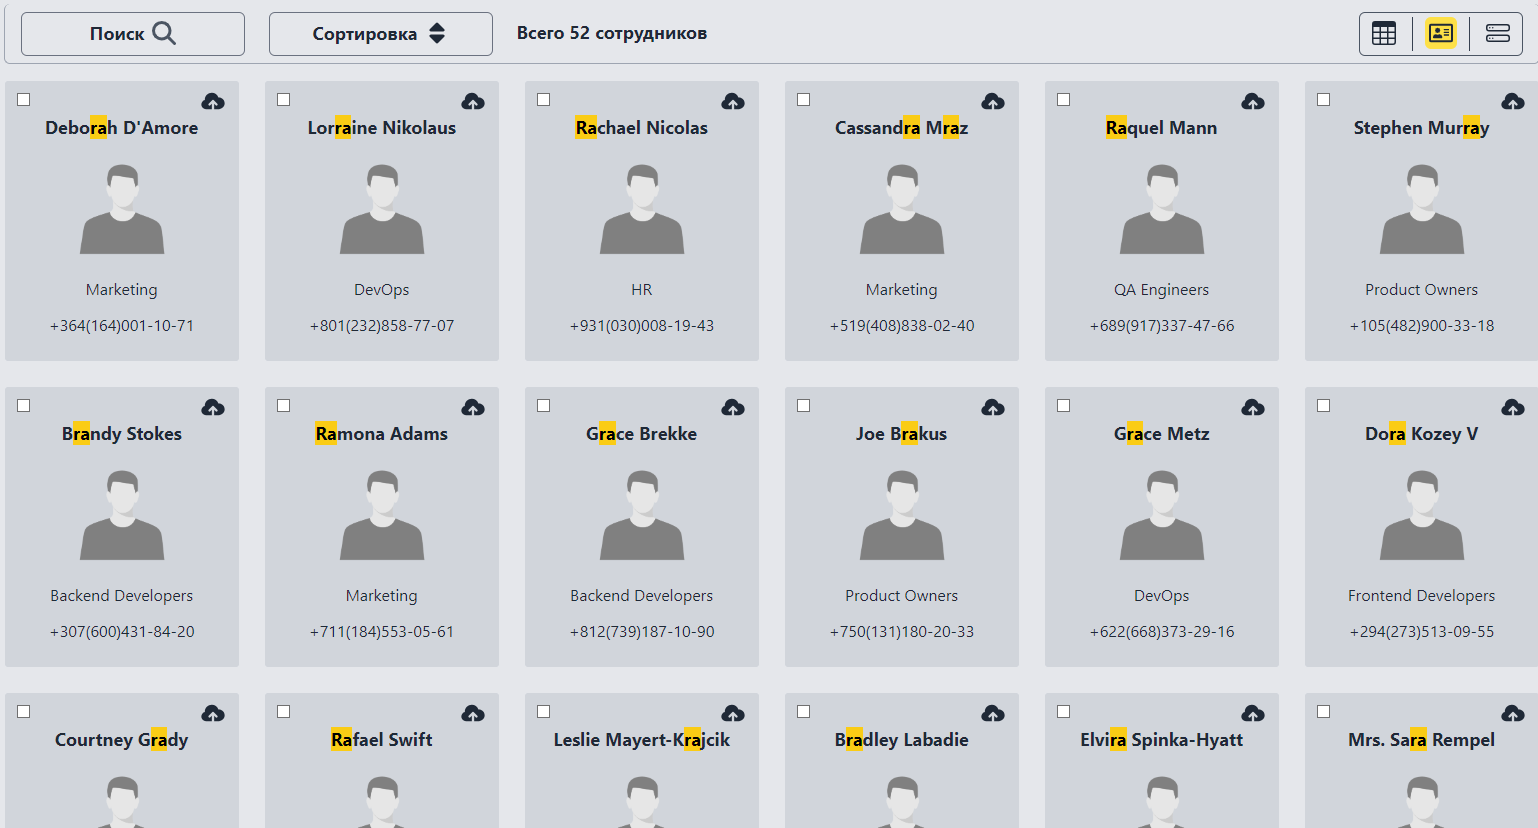
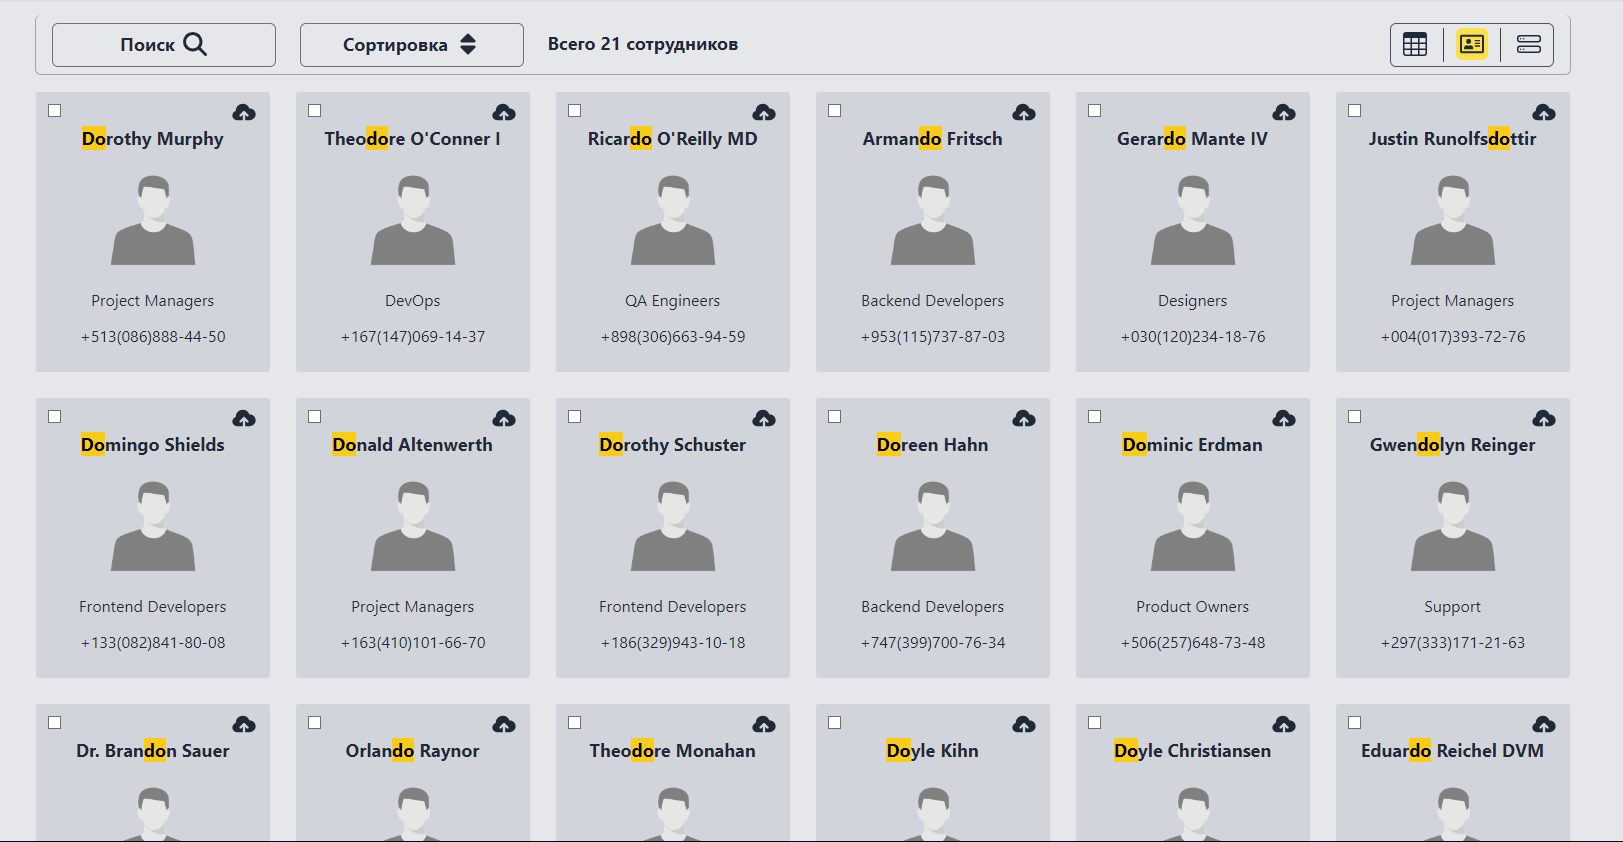
Dark theme has been created

diff --git a/src/components/dashboards/TableEntry.tsx b/src/components/dashboards/TableEntry.tsx
@@ -8,7 +8,8 @@ export default function TableEntry({ employee, isSelected, setIsSelected }: Entr
     const { searchField, searchValue } = useEmployeeData();
 
     return (
-        <tr key={employee.id} className={clsx(isSelected ? "bg-blue-200 even:bg-blue-300" : "odd:bg-gray-100")}>
+        <tr key={employee.id} className={clsx(isSelected ?
+            "bg-blue-200 even:bg-blue-300 dark:bg-blue-800/75 dark:odd:bg-blue-600/75" : "odd:bg-gray-100 dark:odd:bg-gray-600")}>
             <td className=""><input className="mx-auto block" type="checkbox"
                                     checked={isSelected} onChange={event => {
                 const check = event.currentTarget?.checked;
@@ -19,31 +20,31 @@ export default function TableEntry({ employee, isSelected, setIsSelected }: Entr
                 }));
             }}/></td>
             <td className="py-2">{searchField === "name" && searchValue ? <Highlighter
-                highlightClassName="bg-yellow-400"
+                highlightClassName="bg-yellow-400 dark:bg-yellow-500"
                 searchWords={[ searchValue ]}
                 autoEscape={true}
                 textToHighlight={employee.name}
             /> : employee.name}</td>
             <td className="py-2">{searchField === "accountName" && searchValue ? <Highlighter
-                highlightClassName="bg-yellow-400"
+                highlightClassName="bg-yellow-400 dark:bg-yellow-500"
                 searchWords={[ searchValue ]}
                 autoEscape={true}
                 textToHighlight={employee.accountName}
             /> : employee.accountName}</td>
             <td className="py-2">{searchField === "email" && searchValue ? <Highlighter
-                highlightClassName="bg-yellow-400"
+                highlightClassName="bg-yellow-400 dark:bg-yellow-500"
                 searchWords={[ searchValue ]}
                 autoEscape={true}
                 textToHighlight={employee.email}
             /> : employee.email}</td>
             <td className="py-2">{searchField === "group" && searchValue ? <Highlighter
-                highlightClassName="bg-yellow-400"
+                highlightClassName="bg-yellow-400 dark:bg-yellow-500"
                 searchWords={[ searchValue ]}
                 autoEscape={true}
                 textToHighlight={employee.group || "Unmanaged"}
             /> : employee.group || "Unmanaged"}</td>
             <td className="py-2">{searchField === "phoneNumber" && searchValue ? <Highlighter
-                highlightClassName="bg-yellow-400"
+                highlightClassName="bg-yellow-400 dark:bg-yellow-500"
                 searchWords={[ searchValue ]}
                 autoEscape={true}
                 textToHighlight={employee.phoneNumber}

diff --git a/src/components/dashboards/CardEntry.tsx b/src/components/dashboards/CardEntry.tsx
@@ -11,7 +11,8 @@ export default function CardEntry({ employee, setIsSelected, isSelected }: Entry
 
     return (
         <div className={clsx("relative px-6 pt-8 pb-6 rounded flex flex-col items-center gap-y-3 cursor-pointer border",
-            isSelected ? "bg-blue-200 border-blue-400" : "bg-gray-300 hover:bg-gray-400/90")}
+            isSelected ? "bg-blue-200 border-blue-400 dark:bg-blue-700/50" :
+                "bg-gray-300 hover:bg-gray-400/90 dark:border-gray-300 dark:bg-gray-800 dark:hover:bg-gray-700")}
              onClick={() => {
                  setIsSelected(prev => ({
                      ...prev,
@@ -19,20 +20,20 @@ export default function CardEntry({ employee, setIsSelected, isSelected }: Entry
                  }));
              }}>
             <h5 className="font-bold text-lg">{searchField === "name" && searchValue ? <Highlighter
-                highlightClassName="bg-yellow-400"
+                highlightClassName="bg-yellow-400 dark:bg-yellow-500"
                 searchWords={[ searchValue ]}
                 autoEscape={true}
                 textToHighlight={employee.name}
             /> : employee.name}</h5>
             <img src="/avatar_placeholder.png" alt="Avatar" className="w-28"/>
             <p>{searchField === "group" && searchValue ? <Highlighter
-                highlightClassName="bg-yellow-400"
+                highlightClassName="bg-yellow-400 dark:bg-yellow-500"
                 searchWords={[ searchValue ]}
                 autoEscape={true}
                 textToHighlight={employee.group || "Unmanaged"}
             /> : employee.group || "Unmanaged"}</p>
             <p>{searchField === "phoneNumber" && searchValue ? <Highlighter
-                highlightClassName="bg-yellow-400"
+                highlightClassName="bg-yellow-400 dark:bg-yellow-500"
                 searchWords={[ searchValue ]}
                 autoEscape={true}
                 textToHighlight={employee.phoneNumber}

diff --git a/src/HomePage.tsx b/src/HomePage.tsx
@@ -13,7 +13,8 @@ export default function HomePage() {
                 можете добавлять, редактировать и просматривать информацию о сотрудниках в реальном времени.
             </p>
             <div className="flex justify-center space-x-5 items-start">
-                <Link to="/dashboard" className="bg-purple-600 text-white py-4 px-3 shadow-lg tracking-wide rounded-xl hover:bg-purple-700">
+                <Link to="/dashboard"
+                      className="bg-purple-600 text-white py-4 px-3 shadow-lg tracking-wide rounded-xl hover:bg-purple-700">
                     Перейти к дашбордам
                 </Link>
                 <button className="border-2 bg-transparent border-purple-600 text-purple-600 tracking-wide py-3 px-3 shadow-lg
@@ -21,7 +22,15 @@ export default function HomePage() {
                     Как это работает
                 </button>
             </div>
-            <img src="/landing_screen.png" alt="Landing screen" className="mt-8 shadow-lg border border-gray-300 rounded-lg"/>
+
+            <div className="w-full dark:hidden">
+                <img src="/landing_screen.png" alt="Landing screen"
+                     className="mt-8 shadow-lg border border-gray-300 rounded-lg"/>
+            </div>
+            <div className="w-full hidden dark:block">
+                <img src="/landing_screen_dark.png" alt="Landing screen"
+                     className="mt-8 shadow-lg border border-gray-300 rounded-lg"/>
+            </div>
         </main>
     )
 }

diff --git a/src/components/dashboardToolbar/SortDropdown.tsx b/src/components/dashboardToolbar/SortDropdown.tsx
@@ -5,15 +5,16 @@ import clsx from "clsx";
 
 export default function SortDropdown() {
 
-    const {setSortedField, sortedField, isSortAscending, setIsSortAscending} = useEmployeeData();
+    const { setSortedField, sortedField, isSortAscending, setIsSortAscending } = useEmployeeData();
     return (
         <div
-            className="w-56 overflow-y-hidden transition-all duration-200 border border-gray-500 rounded-md
-                        h-11 hover:h-48 text-center z-10 bg-gray-200 pt-1.5 flex flex-col gap-y-3 items-center">
+            className="w-56 border border-gray-500 rounded-md overflow-y-hidden transition-all duration-200
+                        h-11 hover:h-48 text-center z-10 bg-gray-200 dark:bg-gray-800 pt-1.5 flex flex-col gap-y-3 items-center">
             <h5 className="text-lg font-bold flex items-center gap-x-2">Сортировка <FaSort size={24}/></h5>
             <label htmlFor="sortedField" className="block">
                 <p>Поле сортировки:</p>
-                <select name="sortedField" id="sortedField" className="mt-2" value={sortedField || "none"}
+                <select name="sortedField" id="sortedField" className="mt-2 dark:bg-gray-600 focus:outline-none"
+                        value={sortedField || "none"}
                         onChange={event => {
                             const newValue = event.currentTarget.value === "none" ? null : event.currentTarget.value;
                             setSortedField(newValue as keyof Employee);

diff --git a/src/components/dashboards/GroupEntry.tsx b/src/components/dashboards/GroupEntry.tsx
@@ -10,7 +10,7 @@ export default function GroupEntry({ employee, setIsSelected, isSelected }: Entr
     return (
         <div
             className={clsx("relative p-2 flex justify-between items-center gap-x-3 cursor-pointer border mb-2",
-                isSelected ? "bg-blue-200 border-blue-400" : "hover:bg-gray-100/90 border-gray-700")}
+                isSelected ? "bg-blue-200 border-blue-400 dark:bg-blue-700/50" : "hover:bg-gray-100/90 dark:hover:bg-gray-700 border-gray-700")}
             onClick={() => {
                 setIsSelected(prev => ({
                     ...prev,
@@ -19,13 +19,13 @@ export default function GroupEntry({ employee, setIsSelected, isSelected }: Entr
             }}>
             <div>
                 <h6 className="">{searchField === "name" && searchValue ? <Highlighter
-                    highlightClassName="bg-yellow-400"
+                    highlightClassName="bg-yellow-400 dark:bg-yellow-500"
                     searchWords={[ searchValue ]}
                     autoEscape={true}
                     textToHighlight={employee.name}
                 /> : employee.name}</h6>
                 <p className="text-xs">{searchField === "position" && searchValue ? <Highlighter
-                    highlightClassName="bg-yellow-400"
+                    highlightClassName="bg-yellow-400 dark:bg-yellow-500"
                     searchWords={[ searchValue ]}
                     autoEscape={true}
                     textToHighlight={employee.position}

diff --git a/src/components/dashboardToolbar/SearchDropdown.tsx b/src/components/dashboardToolbar/SearchDropdown.tsx
@@ -7,13 +7,14 @@ export default function SearchDropdown() {
     return (
         <div
             className="w-56 border border-gray-500 rounded-md overflow-y-hidden transition-all duration-200
-                        h-11 hover:h-48 text-center z-10 bg-gray-200 pt-1.5 flex flex-col gap-y-3 items-center">
+                        h-11 hover:h-48 text-center z-10 bg-gray-200 dark:bg-gray-800 pt-1.5 flex flex-col gap-y-3 items-center">
             <h5 className="text-lg font-bold flex items-center gap-x-2">
-                Поиск <FaMagnifyingGlass size={24} className="text-gray-600"/>
+                Поиск <FaMagnifyingGlass size={24}/>
             </h5>
             <label htmlFor="searchField" className="block">
                 <p>Поле поиска:</p>
-                <select name="searchField" id="searchField" className="mt-2" value={searchField || "none"}
+                <select name="searchField" id="searchField"
+                        className="mt-2 dark:bg-gray-600 focus:outline-none" value={searchField || "none"}
                         onChange={event => {
                             const newValue = event.currentTarget.value === "none" ? null : event.currentTarget.value;
                             setSearchField(newValue as keyof Employee);

diff --git a/src/components/dashboardToolbar/SelectDashboardVariant.tsx b/src/components/dashboardToolbar/SelectDashboardVariant.tsx
@@ -22,12 +22,13 @@ export default function SelectDashboardVariant({ active, setActive }: SelectDash
     // TODO: remove animation and replace it with highlighting of active variant
 
     return (
-        <div className="flex items-center gap-x-3 px-2 py-1 border border-gray-600
+        <div className="flex items-center gap-x-3 px-2 py-1 border border-gray-600 dark:border-gray-400
             rounded-md">
             {Object.entries(variants)
                 .map(([ key, Icon ]) => (
                     <div className="border-r pr-3 border-gray-700 last:border-r-0 last:pr-0">
-                        <button className={clsx(" p-1 rounded-md", active === key ? "bg-yellow-300" : "hover:bg-blue-300")}
+                        <button className={clsx(" p-1 rounded-md", active === key ?
+                            "bg-yellow-300 dark:bg-yellow-500" : "hover:bg-blue-300 hover:dark:bg-blue-400")}
                                 disabled={active === key} onClick={() => setActive(key)}>
                             <Icon size={24}/>
                         </button>

diff --git a/src/components/Header.tsx b/src/components/Header.tsx
@@ -28,7 +28,7 @@ export default function Header() {
                     links.map(({ text, to }) => (
                         <NavLink to={to}
                                  className={({ isActive }) =>
-                                     clsx("border border-gray-700 px-2 py-1 rounded-lg hover:underline text-lg hover:shadow",
+                                     clsx("border border-gray-700 dark:border-gray-400 px-2 py-1 rounded-lg hover:underline text-lg hover:shadow",
                                          isActive && "font-bold")}>
                             {text}</NavLink>
                     ))

diff --git a/src/DashboardPage.tsx b/src/DashboardPage.tsx
@@ -111,7 +111,7 @@ export default function DashboardPage() {
     return (
         <div className="w-full">
             <div className="flex justify-between items-start mb-4 px-4 gap-x-6 max-h-[60px] sticky
-            top-0 w-full bg-gray-200 py-2 border border-t-0 rounded-md border-gray-400 z-10">
+            top-0 w-full bg-gray-200 dark:bg-gray-800 py-2 border border-t-0 rounded-md border-gray-400 z-10">
                 <SearchDropdown />
                 <SortDropdown />
                 <h4 className="text-lg font-bold mt-1.5">Всего {finalEmployees.length} сотрудников</h4>

diff --git a/src/Layout.tsx b/src/Layout.tsx
@@ -1,8 +1,17 @@
 import { Outlet } from "react-router-dom";
 import Header from "./components/Header.tsx";
 import Footer from "./components/Footer.tsx";
+import { useEffect } from "react";
 
 export default function Layout() {
+
+    useEffect(() => {
+        if (localStorage.theme === "dark" || (!("theme" in localStorage) && window.matchMedia("(prefers-color-scheme: dark)").matches)) {
+            document.documentElement.classList.add('dark');
+        } else {
+            document.documentElement.classList.remove('dark');
+        }
+    }, []);
 
     return (
         <div

diff --git a/src/components/dashboards/TableDashboard.tsx b/src/components/dashboards/TableDashboard.tsx
@@ -18,7 +18,7 @@ export default function TableDashboard({ employees }: DashboardProps) {
                     <col span={1} className="w-[15%]"/>
                     <col span={1} className="w-[15%]"/>
                 </colgroup>
-                <thead className="bg-slate-300 py-2">
+                <thead className="bg-slate-300 dark:bg-slate-700 py-2">
                 <tr className="text-left">
                     <th className="py-3"><input className="mx-auto block" type="checkbox" onChange={event => {
                         const check = event.currentTarget?.checked;
